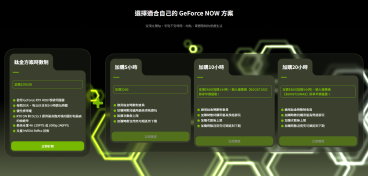
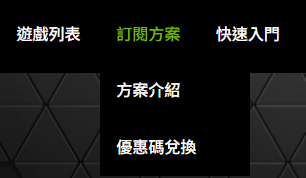
quickstart_202606

diff --git a/quickstart.html b/quickstart.html
@@ -562,8 +562,8 @@
                                     <div class="chart-ct-item-wrap">
                                         <div class="step-title-wrap">
                                             <div class="step-digi">01</div>
-                                            <div class="step-title">選擇優惠碼<span class="nv">指定配合</span>方案</div>
-                                            <div class="step-txt sub sm">點擊「立即體驗」</div>
+                                            <div class="step-title">登入官網並進入<span class="nv">【優惠碼兌換】</span>頁面</div>
+                                            <!-- <div class="step-txt sub sm">點擊「立即體驗」</div> -->
                                         </div>
                                         <div class="chart-ct-item-img">
                                             <img src="img/quickstart/invite-code/01.png" alt="">